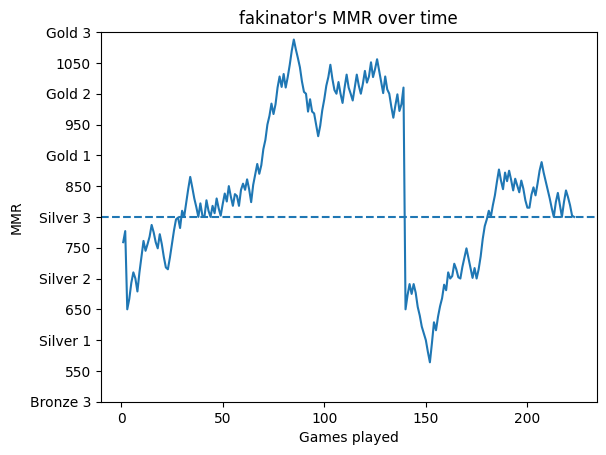
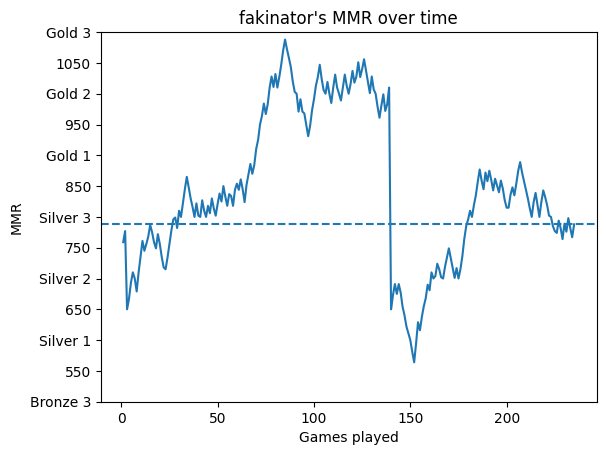
added random crosshair thingy

diff --git a/main.py b/main.py
@@ -11,8 +11,6 @@ from discord_slash import SlashCommand
 from discord_slash.utils.manage_commands import create_option, create_choice
 import random
 import playerclass
-import personClass
-import csv
 
 def get_config():
     c = configparser.ConfigParser()
@@ -362,6 +360,24 @@ async def lineup(ctx, agent="", map=""):
     if agent != "" and map != "":
         await ctx.send(f'https://atomic-potatos.github.io/Valorant-Lineups/agents/{agent}/{map}.html')
 
+@slash.slash(description="Gives a crosshair",
+             guild_ids=guild_ids)
+async def crosshair(ctx):
+
+    name, code = valorant.random_crosshair()
+
+    if type(name) == str:
+        file=discord.File(fp="crosshair.png", filename='crosshair.png')
+        embed = discord.Embed(title=name)
+        embed.add_field(name="Code:", value=code)
+        embed.set_image(url="attachment://crosshair.png")
+        await ctx.send(content="", file=file, embed=embed)
+
+    else:
+        await ctx.send("the thingo failed.")
+
+
+
 @slash.slash(description="Other Commands", guild_ids=guild_ids)
 async def other(ctx):
     msg = "```List of other commands:\n"
@@ -378,7 +394,7 @@ async def other(ctx):
              create_option(name="character", description="Enter a character to search for", option_type=3, required=False),
              create_option(name="anime_stats", description="Enter an anime to get stats for", option_type=3, required=False),
              create_option(name="manga_stats", description="Enter an manga to get stats for", option_type=3, required=False)])
-async def search(ctx, *, anime_title = "", manga_title = "", character = "", anime_stats = "", manga_stats = ""):
+async def MAL(ctx, *, anime_title = "", manga_title = "", character = "", anime_stats = "", manga_stats = ""):
     
     if anime_title != "":
         msg = await ctx.send("Getting info for " + anime_title)
@@ -459,10 +475,10 @@ async def search(ctx, *, anime_title = "", manga_title = "", character = "", ani
             await ctx.send("Character not found.")
 
         else:
-            file=discord.File(fp="image.png", filename='image.png')
+            file=discord.File(fp="bargraph.png", filename='bargraph.png')
             embed = discord.Embed(title=anime['title'], url=anime['url'])
 
-            embed.set_image(url="attachment://image.png")
+            embed.set_image(url="attachment://bargraph.png")
 
             embed.add_field(name="Other stats:", 
             value="Completed: {}\nWatching: {}\nPlan to watch: {}\nDropped: {}\nOn Hold: {}\nTotal: {}".format(
@@ -483,10 +499,10 @@ async def search(ctx, *, anime_title = "", manga_title = "", character = "", ani
             await ctx.send("Character not found.")
 
         else:
-            file=discord.File(fp="image.png", filename='image.png')
+            file=discord.File(fp="bargraph.png", filename='bargraph.png')
             embed = discord.Embed(title=manga['title'], url=manga['url'])
 
-            embed.set_image(url="attachment://image.png")
+            embed.set_image(url="attachment://bargraph.png")
 
             embed.add_field(name="Other stats:", 
             value="Completed: {}\nReading: {}\nPlan to read: {}\nDropped: {}\nOn Hold: {}\nTotal: {}".format(

diff --git a/valorant.py b/valorant.py
@@ -2,6 +2,9 @@ import os
 import requests
 import json
 import playerclass
+from PIL import Image
+from io import BytesIO
+import random
 
 def get_tag(ign):
     playerlist = playerclass.PlayerList("playerlist.csv")
@@ -319,7 +322,7 @@ def get_banner(ign, tag):
 
     data = json.loads(r.text)
 
-    if data['status'] == '404' or data['status'] == '500':
+    if data['status'] != '200':
         return "Player not found, check syntax: (ign#tag)"
     
     url = data['data']['card']['large']
@@ -420,6 +423,38 @@ def remove_player(ign, tag):
 
     return f'{ign}#{tag} has been removed'
 
+def crosshair(code):
+    
+    url = f"https://api.henrikdev.xyz/valorant/v1/crosshair/generate?id={code}"
+
+    headers = {'accept': 'application/json'}
+    r = requests.get(url, headers=headers)
+
+    img = Image.open(BytesIO(r.content))
+    img = img.save("crosshair.png")
+
+    return True
+
+def random_crosshair():
+
+    crosshairs = {  "Reyna Flash" : "0;P;c;6;t;6;o;0.3;f;0;0t;1;0l;5;0o;5;0a;1;0f;0;1t;10;1l;4;1o;5;1a;0.5;1m;0;1f;0", 
+                    "Windmill"    : "0;P;c;1;t;6;o;1;d;1;z;6;a;0;f;0;m;1;0t;10;0l;20;0o;20;0a;1;0m;1;0e;0.1;1t;10;1l;10;1o;40;1a;1;1m;0",
+                    "Flappy Bird" : "0;P;c;1;t;3;o;1;f;0;0t;6;0l;20;0o;13;0a;1;0f;0;1t;9;1l;4;1o;9;1a;1;1m;0;1f;0",
+                    "Flower"      : "0;P;c;6;o;1;d;1;z;4;f;0;m;1;0t;8;0l;3;0o;2;0a;0;0f;0;1l;3;1o;3;1a;0;1m;0;1f;0",
+                    "Diamond"     : "0;P;c;5;h;0;f;0;0t;1;0l;3;0o;0;0a;1;0f;0;1t;3;1o;0;1a;1;1m;0;1f;0",
+                    "Smiley"      : "0;P;c;7;t;2;o;1;d;1;z;3;a;0;f;0;0t;10;0l;2;0o;2;0a;1;0f;0;1b;0",
+                    "Globe"       : "0;P;o;1;f;0;0t;10;0l;4;0a;0;0f;0;1t;4;1o;6;1a;0;1m;0;1f;0",
+                    "Shuriken"    : "0;P;c;7;h;0;f;0;0l;4;0o;2;0a;1;0f;0;1t;8;1l;1;1o;1;1a;1;1m;0;1f;0",
+                    "Fishnet"     : "0;P;o;1;d;1;a;0;f;0;0t;8;0l;2;0o;5;0a;0;0f;0;1l;8;1o;2;1a;0;1m;0;1f;0"}
+
+    name, code = random.choice(list(crosshairs.items()))
+
+    if not crosshair(code):
+        return (False, False)
+
+    return (name, code)
+
 if __name__ == '__main__':
-    print(update_database('Luusér', 'oce'))
-    print(local_leaderboard())
+    #print(update_database('Luusér', 'oce'))
+    #print(get_mmr_history("oshawott"))
+    print(crosshair("0;P;c;1;t;6;o;1;d;1;z;6;a;0;f;0;m;1;0t;10;0l;20;0o;20;0a;1;0m;1;0e;0.1;1t;10;1l;10;1o;40;1a;1;1m;0"))

diff --git a/graphs.py b/graphs.py
@@ -15,6 +15,16 @@ ranks = {
 2100 : "Immortal 1", 2200 : "Immortal 2", 2300 : "Immortal 3"
 }
 
+old_ranks = {
+0 : "Iron 1", 100 : "Iron 2", 200 : "Iron 3",
+300 : "Bronze 1", 400 : "Bronze 2", 500 : "Bronze 3",
+600 : "Silver 1", 700 : "Silver 2", 800 : "Silver 3",
+900 : "Gold 1", 1000 : "Gold 2", 1100 : "Gold 3",
+1200 : "Platinum 1", 1300 : "Platinum 2", 1400 : "Platinum 3",
+1500 : "Diamond 1", 1600 : "Diamond 2", 1700 : "Diamond 3",
+1800 : "Immortal 1", 1900 : "Immortal 2", 2000 : "Immortal 3"
+}
+
 def roundup(x):
     return int(math.ceil(x / 100.0)) * 100
 
@@ -239,5 +249,5 @@ if __name__ == "__main__":
     #multigraph(['8888','azatory','bento2','crossaxis','fade','fakinator', 'giroud', 'grovyle', 'imabandwagon', 'jokii', 'katchampion',
     # 'yovivels', 'dilka30003', 'slumonaire', 'silentwhispers', 'lmao', 'jack', 'thesugarman', 'hoben222', 'quackinator'])
     #multigraph(['8888', 'yovivels', 'dilka30003', 'slumonaire'])
-    #print(make_graph("fakinator"))
-    update_all_graphs()
+    print(make_graph("fakinator"))
+    #update_all_graphs()

diff --git a/malsearch.py b/malsearch.py
@@ -307,7 +307,7 @@ def animeStats(title):
     plt.xticks(x)
     plt.yticks()
     addlabels(x, y)
-    plt.savefig('image.png', bbox_inches='tight')
+    plt.savefig('bargraph.png', bbox_inches='tight')
     plt.clf()
 
     return {"watching":anime["watching"],"completed":anime["completed"],"on_hold":anime["on_hold"],
@@ -371,7 +371,7 @@ def mangaStats(title):
     plt.xticks(x)
     plt.yticks()
     addlabels(x, y)
-    plt.savefig('image.png', bbox_inches='tight')
+    plt.savefig('bargraph.png', bbox_inches='tight')
     plt.clf()
 
     return {"reading":manga["reading"],"completed":manga["completed"],"on_hold":manga["on_hold"],
@@ -380,4 +380,4 @@ def mangaStats(title):
 
 
 if __name__ == '__main__':
-    mangaStats('bunny girl senpai')
+    mangaStats('kaguya sama ultra romantic')
